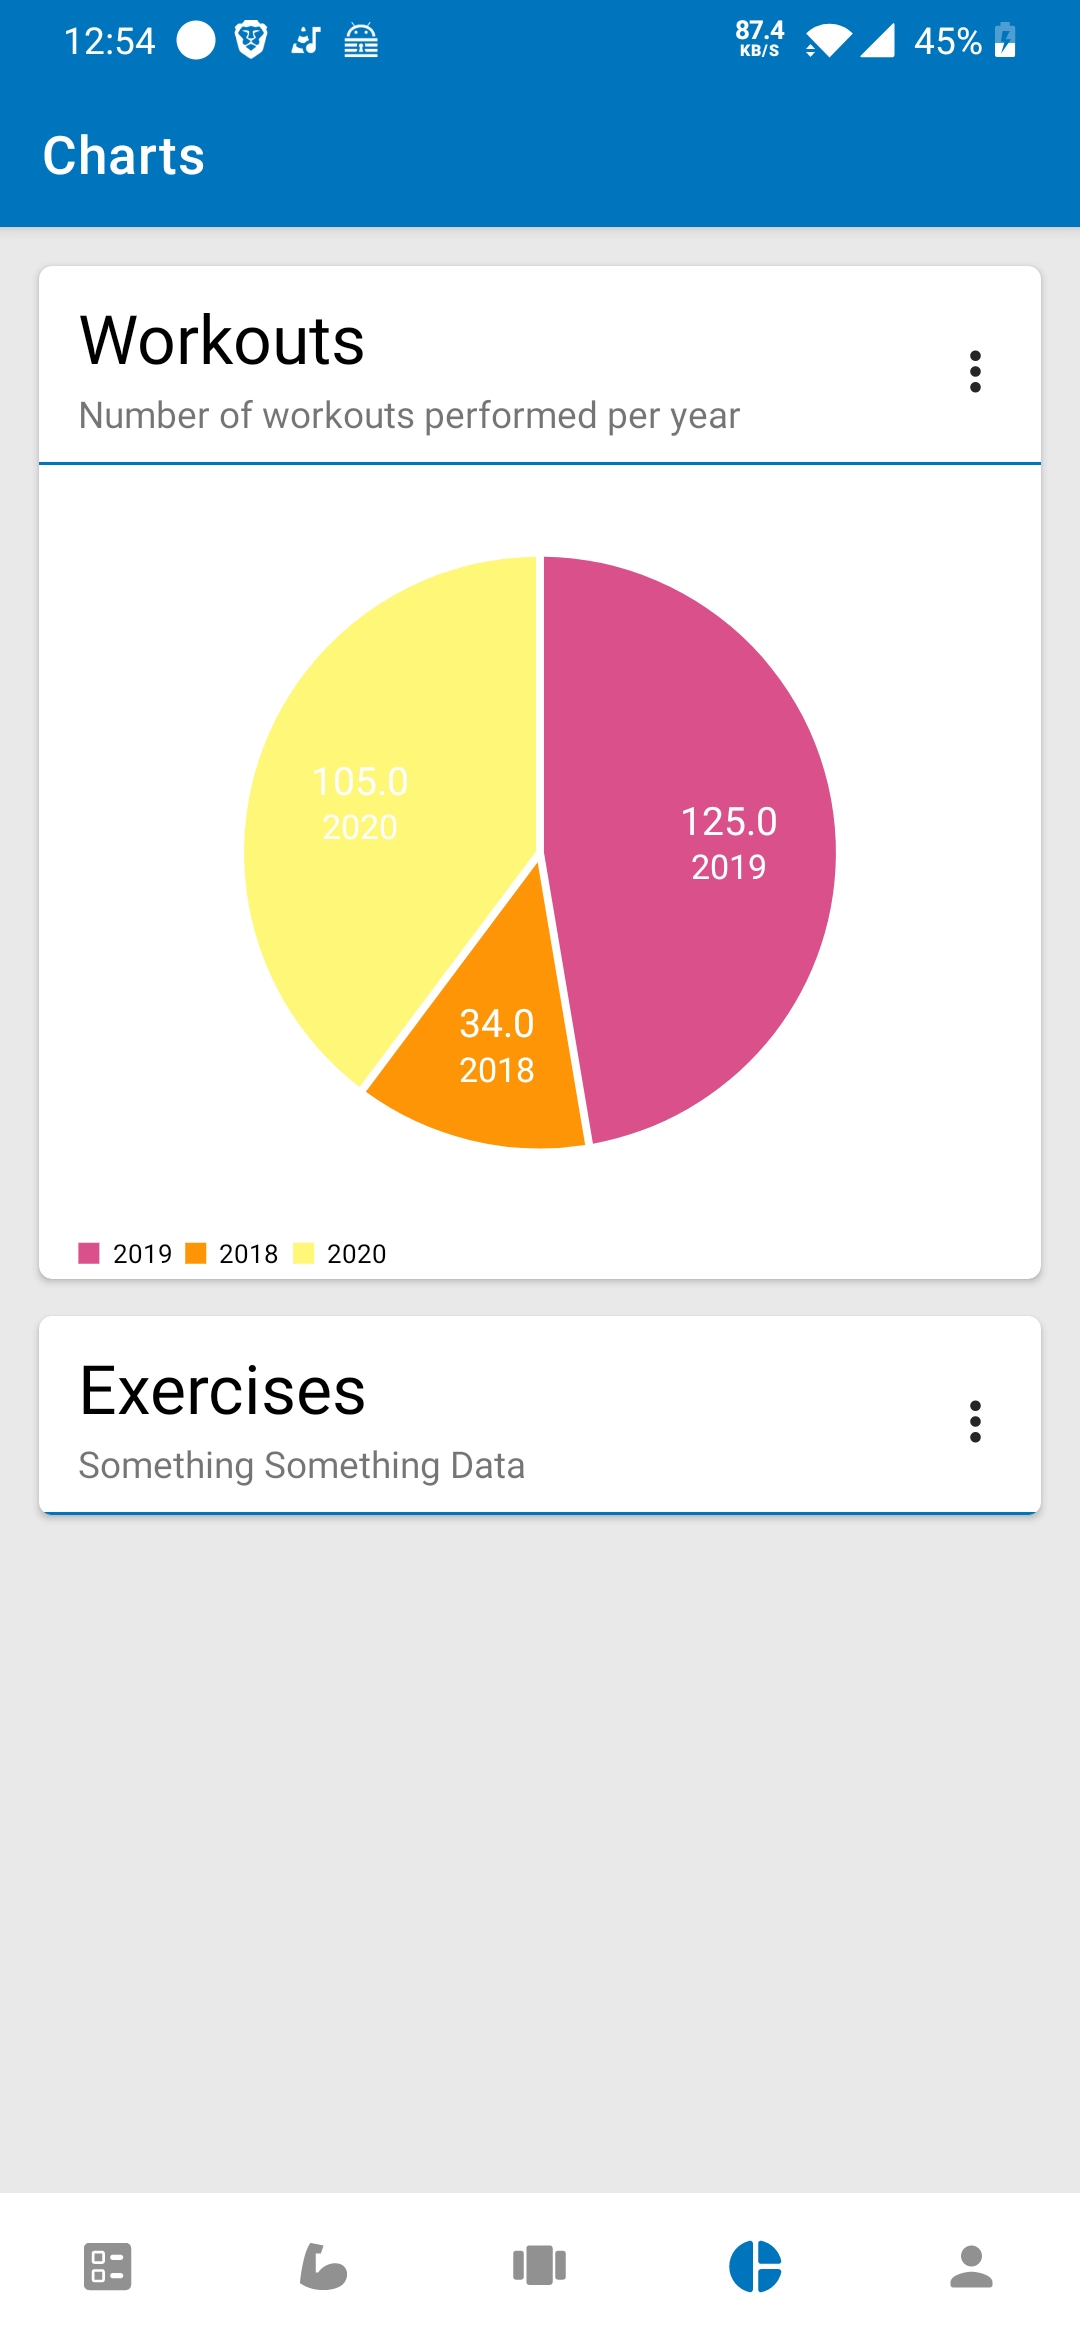
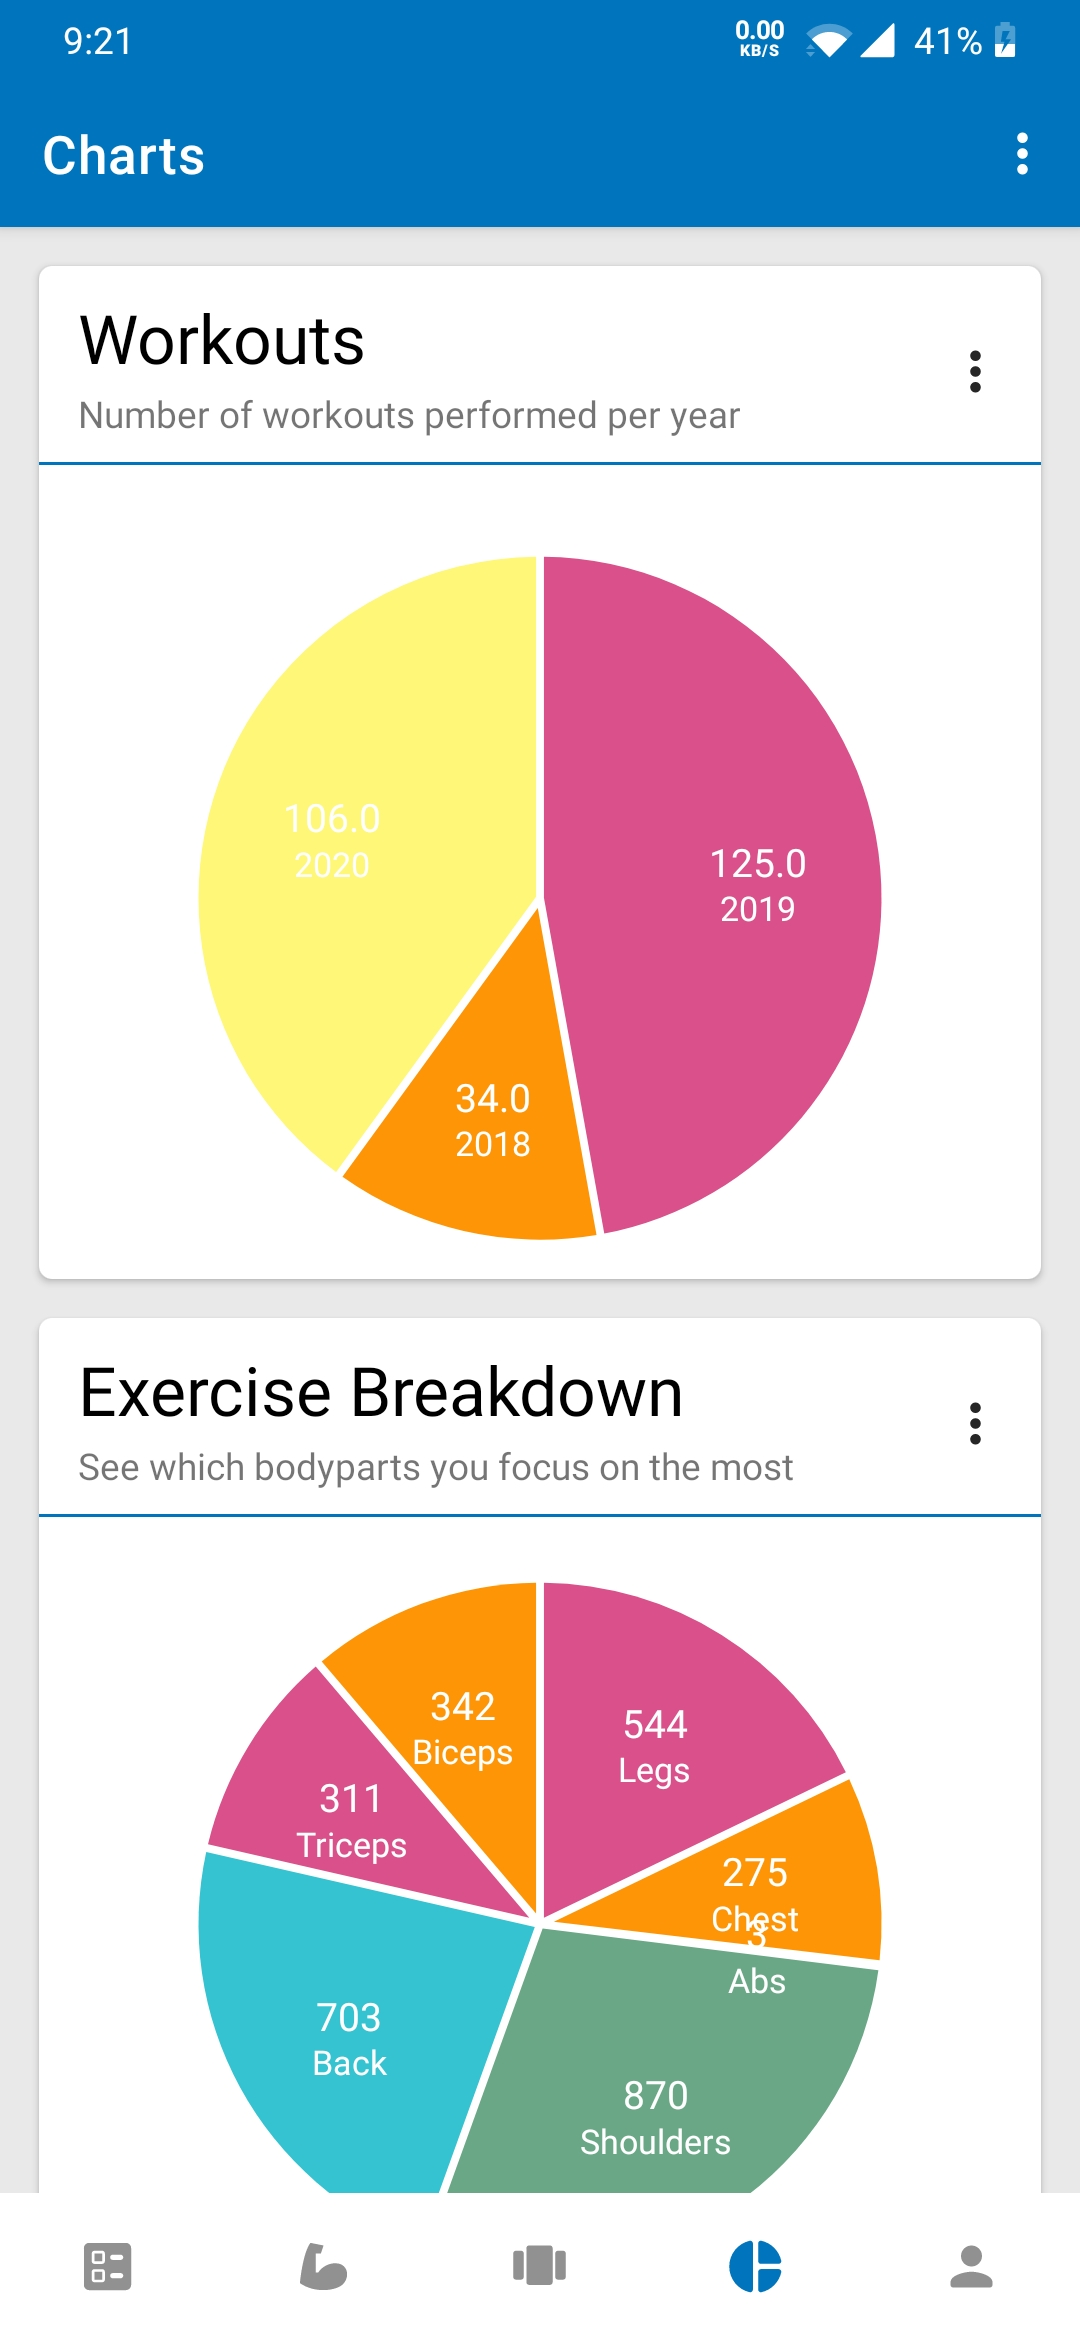
More Screenshots

diff --git a/app/src/main/java/com/example/verifit/ChartsActivity.java b/app/src/main/java/com/example/verifit/ChartsActivity.java
@@ -157,11 +157,11 @@ public class ChartsActivity extends AppCompatActivity implements BottomNavigatio
         data.setValueTextSize(15f);
         data.setValueTextColor(Color.WHITE);
 
+        pieChart.animateY(1000, Easing.EaseInOutCubic);
+        pieChart.setNoDataText("No Workouts");
+        pieChart.getLegend().setEnabled(false);
         pieChart.setData(data);
 
-        pieChart.animateY(1000, Easing.EaseInOutCubic);
-
-        pieChart.setNoDataText("No Workouts");
 
 
 
@@ -236,11 +236,11 @@ public class ChartsActivity extends AppCompatActivity implements BottomNavigatio
         data.setValueTextSize(15f);
         data.setValueTextColor(Color.WHITE);
 
+        pieChart.getLegend().setEnabled(false);
+        pieChart.animateY(1000, Easing.EaseInOutCubic);
+        pieChart.setNoDataText("No Workouts");
         pieChart.setData(data);
 
-        pieChart.animateY(1000, Easing.EaseInOutCubic);
-
-        pieChart.setNoDataText("No Workouts");
     }
 
 
